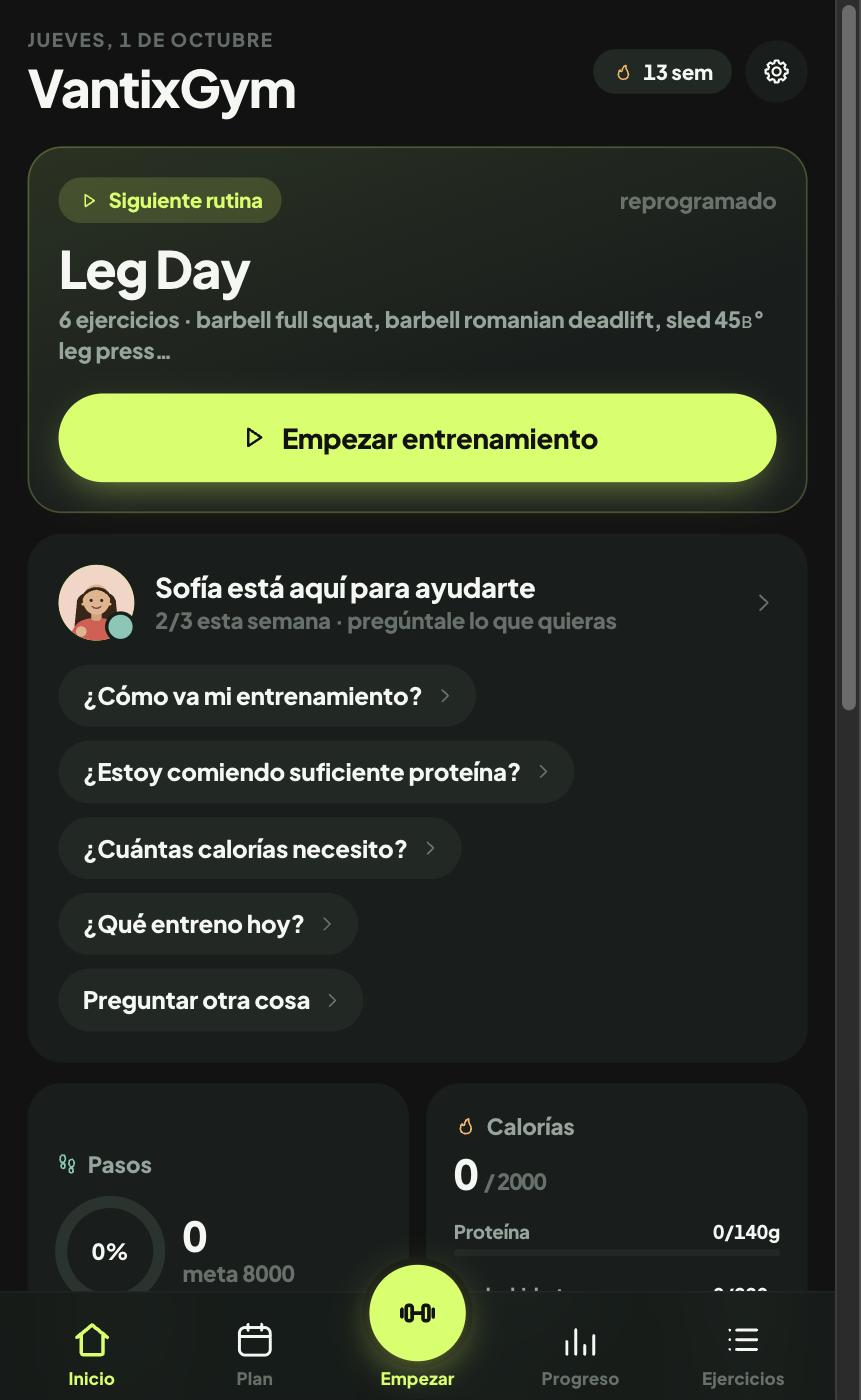
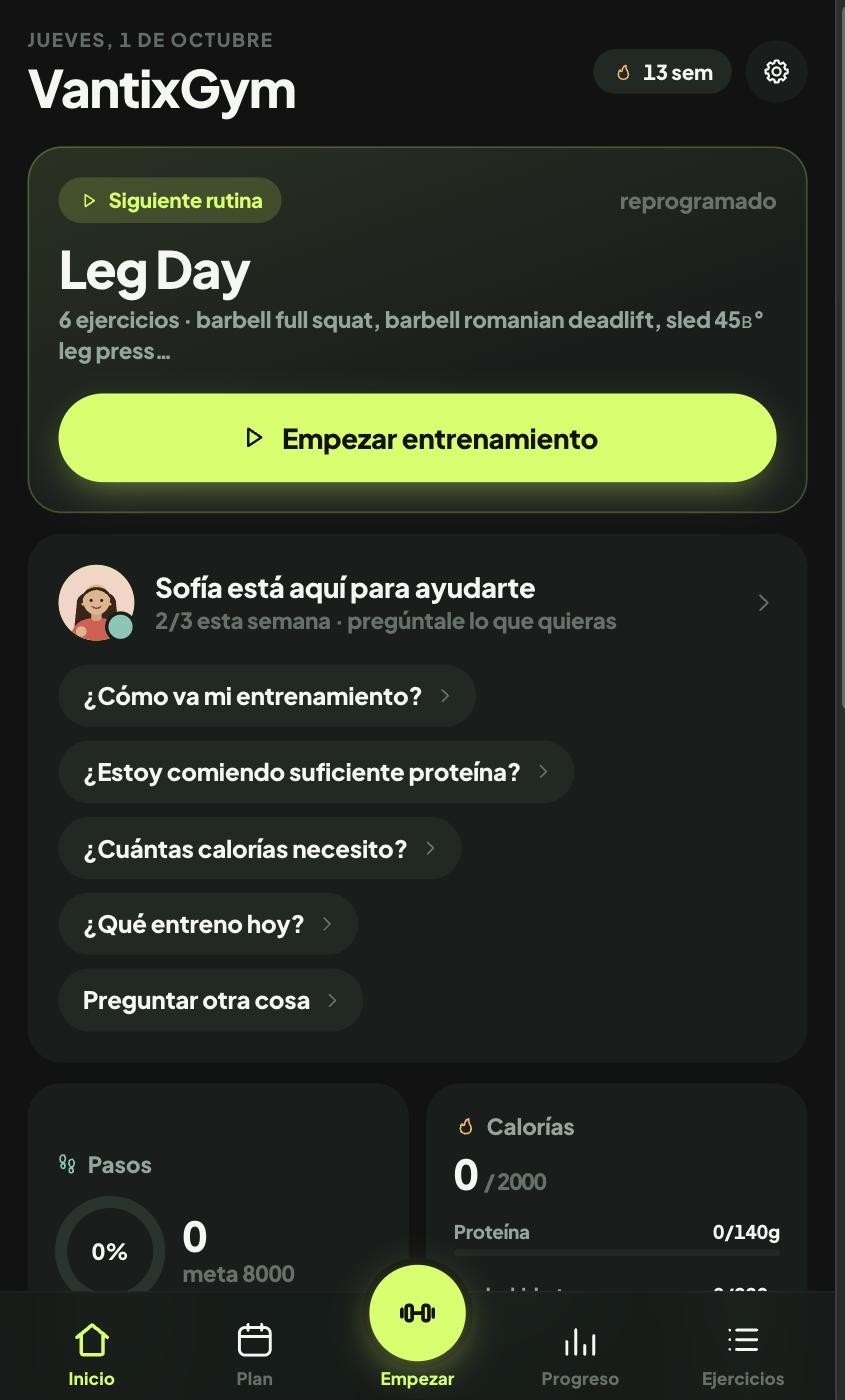
Site: clearer struck prices (period totals), official store badges (hidden until live), screenshots re-cropped so they sit centred in the phone frame

diff --git a/website/index.html b/website/index.html
@@ -64,9 +64,14 @@
       <li>Cancela cuando quieras desde la app</li>
       <li>Tus datos son tuyos: expórtalos o bórralos en un toque</li>
     </ul>
+    <!-- Store badges: when the apps are live, remove `hidden` and set the two hrefs (App Store: https://apps.apple.com/app/id6818728682, Play: https://play.google.com/store/apps/details?id=app.vantixgym.mobile) -->
+    <div class="stores" hidden>
+      <a href="https://apps.apple.com/app/id6818728682" rel="noopener"><img src="/img/badges/app-store-es.svg" alt="Consíguelo en el App Store" width="150" height="50"></a>
+      <a href="https://play.google.com/store/apps/details?id=app.vantixgym.mobile" rel="noopener"><img src="/img/badges/google-play-es.png" alt="Disponible en Google Play" width="169" height="50"></a>
+    </div>
   </div>
   <div class="hero-art">
-    <div class="phone"><img src="img/home.jpg" alt="Pantalla de inicio de VantixGym: el entrenamiento de hoy y la tarjeta de Sofía, el coach, con preguntas sugeridas" width="861" height="1400" fetchpriority="high"></div>
+    <div class="phone"><img src="img/home.jpg" alt="Pantalla de inicio de VantixGym: el entrenamiento de hoy y la tarjeta de Sofía, el coach, con preguntas sugeridas" width="845" height="1400" fetchpriority="high"></div>
   </div>
 </section>
 
@@ -86,7 +91,7 @@
 </section>
 
 <section id="nutricion" class="feature wrap flip">
-  <div class="phone"><img src="img/plan.jpg" alt="Sección de nutrición: botón para fotografiar la comida y el plan de alimentación con desayuno, colación, comida y cena" width="861" height="1400" loading="lazy"></div>
+  <div class="phone"><img src="img/plan.jpg" alt="Sección de nutrición: botón para fotografiar la comida y el plan de alimentación con desayuno, colación, comida y cena" width="845" height="1400" loading="lazy"></div>
   <div class="copy">
     <p class="eyebrow">Nutrición</p>
     <h2>Toma una foto. Nosotros hacemos las cuentas.</h2>
@@ -116,7 +121,7 @@
 </section>
 
 <section id="entreno" class="feature wrap flip">
-  <div class="phone"><img src="img/workout.jpg" alt="Entrenamiento en curso: sentadilla con barra, cuatro series de 95 kilos por 8 repeticiones y el botón Completar serie" width="500" height="789" loading="lazy"></div>
+  <div class="phone"><img src="img/workout.jpg" alt="Entrenamiento en curso: sentadilla con barra, cuatro series de 95 kilos por 8 repeticiones y el botón Completar serie" width="488" height="789" loading="lazy"></div>
   <div class="copy">
     <p class="eyebrow">Entrenamiento</p>
     <h2>Tu semana armada. Tus series registradas. Tu progreso en subida.</h2>
@@ -131,7 +136,7 @@
 </section>
 
 <section id="progreso" class="feature wrap">
-  <div class="phone"><img src="img/progress.jpg" alt="Progreso: 32 entrenamientos, racha de 13 semanas, peso bajó 1,2 kg en 30 días, mapa de calor y equilibrio muscular" width="500" height="789" loading="lazy"></div>
+  <div class="phone"><img src="img/progress.jpg" alt="Progreso: 32 entrenamientos, racha de 13 semanas, peso bajó 1,2 kg en 30 días, mapa de calor y equilibrio muscular" width="488" height="789" loading="lazy"></div>
   <div class="copy">
     <p class="eyebrow">Progreso</p>
     <h2>Lo que mides, mejora.</h2>
@@ -181,7 +186,7 @@
       <p class="tag">Popular</p>
       <h3>6 meses</h3>
       <p class="price"><span class="was">$129</span><span class="n">$99</span> <span class="per">al mes</span></p>
-      <p class="equiv">Un solo pago de $599 cada 6 meses</p>
+      <p class="equiv">Un solo pago de <b>$599</b> <s class="was-line">$774</s> cada 6 meses</p>
       <p class="save">Ahorras $175 · 23%</p>
       <a class="btn ghost" href="https://app.vantixgym.app/">Empezar gratis</a>
     </article>
@@ -189,12 +194,18 @@
       <p class="tag">Mejor valor · ahorras 35%</p>
       <h3>Anual</h3>
       <p class="price"><span class="was">$129</span><span class="n">$83</span> <span class="per">al mes</span></p>
-      <p class="equiv">Un solo pago de $999 al año</p>
+      <p class="equiv">Un solo pago de <b>$999</b> <s class="was-line">$1,548</s> al año</p>
       <p class="save">Ahorras $549 frente al mensual</p>
       <a class="btn" href="https://app.vantixgym.app/">Empezar gratis</a>
     </article>
   </div>
   <p class="fine">Los 7 días de prueba no piden tarjeta. Si activas tu plan durante la prueba, te regalamos 7 días más antes del primer cobro. Cancela cuando quieras: conservas el acceso hasta el final del periodo pagado.</p>
+
+  <!-- Store badges: when the apps are live, remove `hidden` and set the two hrefs (App Store: https://apps.apple.com/app/id6818728682, Play: https://play.google.com/store/apps/details?id=app.vantixgym.mobile) -->
+  <div class="stores" hidden>
+    <a href="https://apps.apple.com/app/id6818728682" rel="noopener"><img src="/img/badges/app-store-es.svg" alt="Consíguelo en el App Store" width="150" height="50"></a>
+    <a href="https://play.google.com/store/apps/details?id=app.vantixgym.mobile" rel="noopener"><img src="/img/badges/google-play-es.png" alt="Disponible en Google Play" width="169" height="50"></a>
+  </div>
 </section>
 
 <section id="faq" class="faq wrap">

diff --git a/website/en/index.html b/website/en/index.html
@@ -64,6 +64,11 @@
       <li>Cancel any time from inside the app</li>
       <li>Your data is yours: export or delete it in one tap</li>
     </ul>
+    <!-- Store badges: when the apps are live, remove `hidden` and set the two hrefs (App Store: https://apps.apple.com/app/id6818728682, Play: https://play.google.com/store/apps/details?id=app.vantixgym.mobile) -->
+    <div class="stores" hidden>
+      <a href="https://apps.apple.com/app/id6818728682" rel="noopener"><img src="/img/badges/app-store-en.svg" alt="Download on the App Store" width="150" height="50"></a>
+      <a href="https://play.google.com/store/apps/details?id=app.vantixgym.mobile" rel="noopener"><img src="/img/badges/google-play-en.png" alt="Get it on Google Play" width="169" height="50"></a>
+    </div>
   </div>
   <div class="hero-art">
     <div class="phone"><img src="/img/home.jpg" alt="VantixGym home screen: today's workout and the card of Sofía, the coach, with suggested questions" width="861" height="1400" fetchpriority="high"></div>
@@ -181,7 +186,7 @@
       <p class="tag">Popular</p>
       <h3>6 months</h3>
       <p class="price"><span class="was">$129</span><span class="n">$99</span> <span class="per">per month</span></p>
-      <p class="equiv">One payment of $599 every 6 months</p>
+      <p class="equiv">One payment of <b>$599</b> <s class="was-line">$774</s> every 6 months</p>
       <p class="save">Save $175 · 23%</p>
       <a class="btn ghost" href="https://app.vantixgym.app/">Start free</a>
     </article>
@@ -189,12 +194,18 @@
       <p class="tag">Best value · save 35%</p>
       <h3>Yearly</h3>
       <p class="price"><span class="was">$129</span><span class="n">$83</span> <span class="per">per month</span></p>
-      <p class="equiv">One payment of $999 a year</p>
+      <p class="equiv">One payment of <b>$999</b> <s class="was-line">$1,548</s> a year</p>
       <p class="save">Save $549 vs monthly</p>
       <a class="btn" href="https://app.vantixgym.app/">Start free</a>
     </article>
   </div>
   <p class="fine">The 7-day trial asks for no card. Activate a plan during the trial and we add 7 more days before the first charge. Cancel any time: you keep access until the end of the paid period.</p>
+
+  <!-- Store badges: when the apps are live, remove `hidden` and set the two hrefs (App Store: https://apps.apple.com/app/id6818728682, Play: https://play.google.com/store/apps/details?id=app.vantixgym.mobile) -->
+  <div class="stores" hidden>
+    <a href="https://apps.apple.com/app/id6818728682" rel="noopener"><img src="/img/badges/app-store-en.svg" alt="Download on the App Store" width="150" height="50"></a>
+    <a href="https://play.google.com/store/apps/details?id=app.vantixgym.mobile" rel="noopener"><img src="/img/badges/google-play-en.png" alt="Get it on Google Play" width="169" height="50"></a>
+  </div>
 </section>
 
 <section id="faq" class="faq wrap">

diff --git a/website/styles.css b/website/styles.css
@@ -61,7 +61,7 @@ p{margin:0}
 
 /* phone frame */
 .phone{position:relative;width:min(300px,78vw);aspect-ratio:430/700;border-radius:40px;padding:9px;background:#0a0a0a;box-shadow:0 0 0 1.5px rgba(255,255,255,.14),0 40px 80px -30px rgba(0,0,0,.9),0 0 120px -40px rgba(208,255,82,.35);flex:none}
-.phone img{width:100%;height:100%;object-fit:cover;object-position:top center;border-radius:32px;background:#121212}
+.phone img{width:100%;height:100%;object-fit:cover;object-position:center top;border-radius:32px;background:#121212;display:block}
 
 /* features */
 .feature{display:grid;grid-template-columns:.9fr 1.1fr;gap:48px;align-items:center;padding:56px 20px}
@@ -146,7 +146,9 @@ p{margin:0}
 
 /* pricing v2 */
 .plan .price{display:flex;align-items:baseline;gap:8px;flex-wrap:wrap;margin:6px 0 0}
-.plan .price .was{font-size:18px;color:var(--fg-3);text-decoration:line-through;font-weight:600}
+.plan .price .was{font-size:22px;color:var(--fg-2);text-decoration:line-through;text-decoration-thickness:2px;text-decoration-color:rgba(255,120,120,.9);font-weight:600;margin-right:2px}
+.plan .was-line{color:var(--fg-3);text-decoration-thickness:2px;text-decoration-color:rgba(255,120,120,.9);font-weight:500}
+.plan p b{font-weight:700;color:var(--fg)}
 .plan .equiv{color:var(--fg-2);font-size:14px;margin:0}
 .plan .save{display:inline-block;align-self:flex-start;background:rgba(208,255,82,.14);color:var(--acc);font-weight:700;font-size:13px;padding:5px 10px;border-radius:999px;margin:2px 0 6px}
 .plan.pop{border-color:rgba(255,255,255,.28)}
@@ -154,3 +156,9 @@ p{margin:0}
 .plan.best .price .n{color:var(--acc)}
 .plan .btn{margin-top:auto}
 @media (max-width:760px){.plan.best{transform:none;order:-1}}
+
+/* store badges (hidden in HTML until the apps are live) */
+.stores{display:flex;flex-wrap:wrap;gap:12px;align-items:center;margin-top:18px}
+.stores img{height:50px;width:auto;display:block;border-radius:8px}
+.pricing .stores{justify-content:center;margin:18px auto 0}
+@media (max-width:760px){.hero .stores{justify-content:center}}
